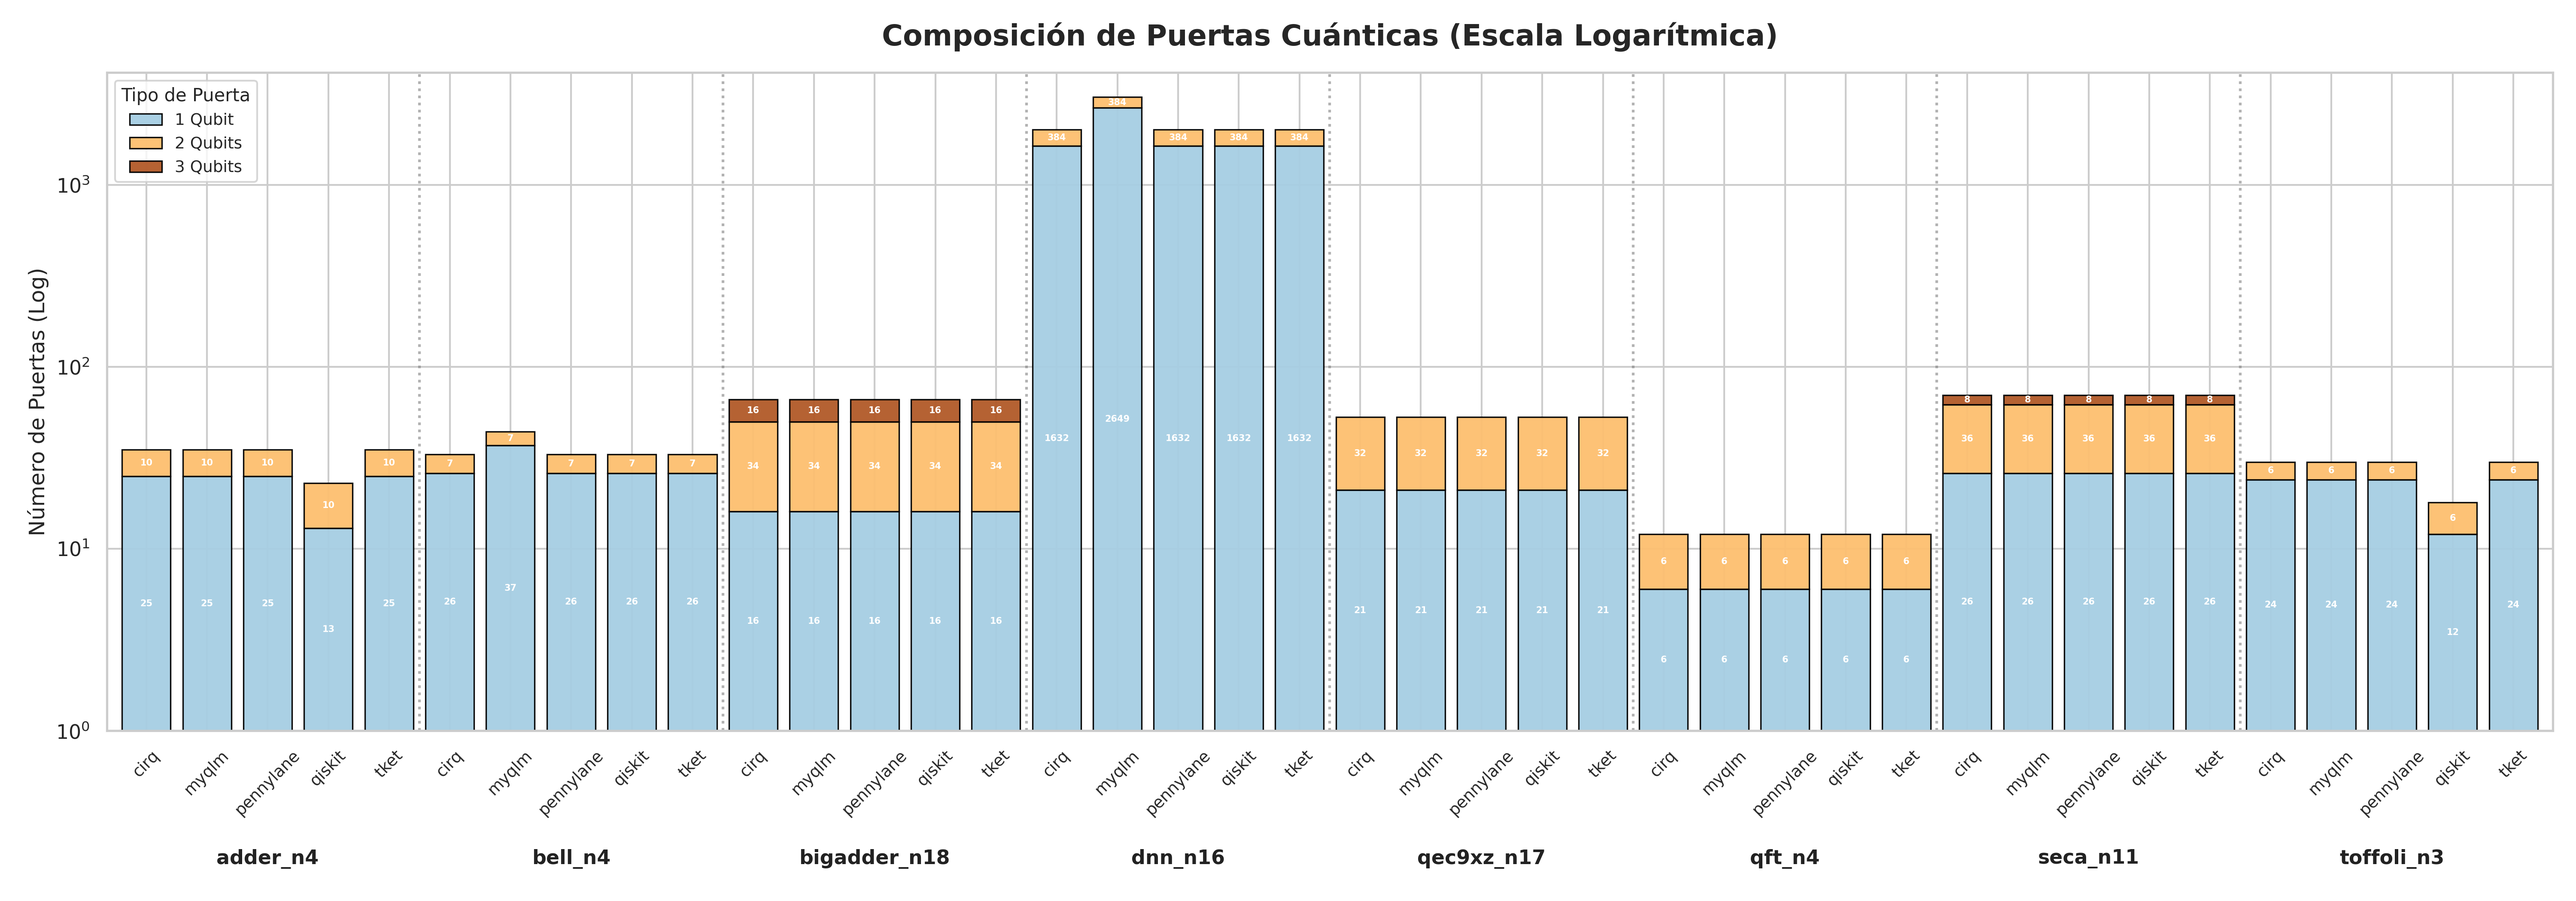
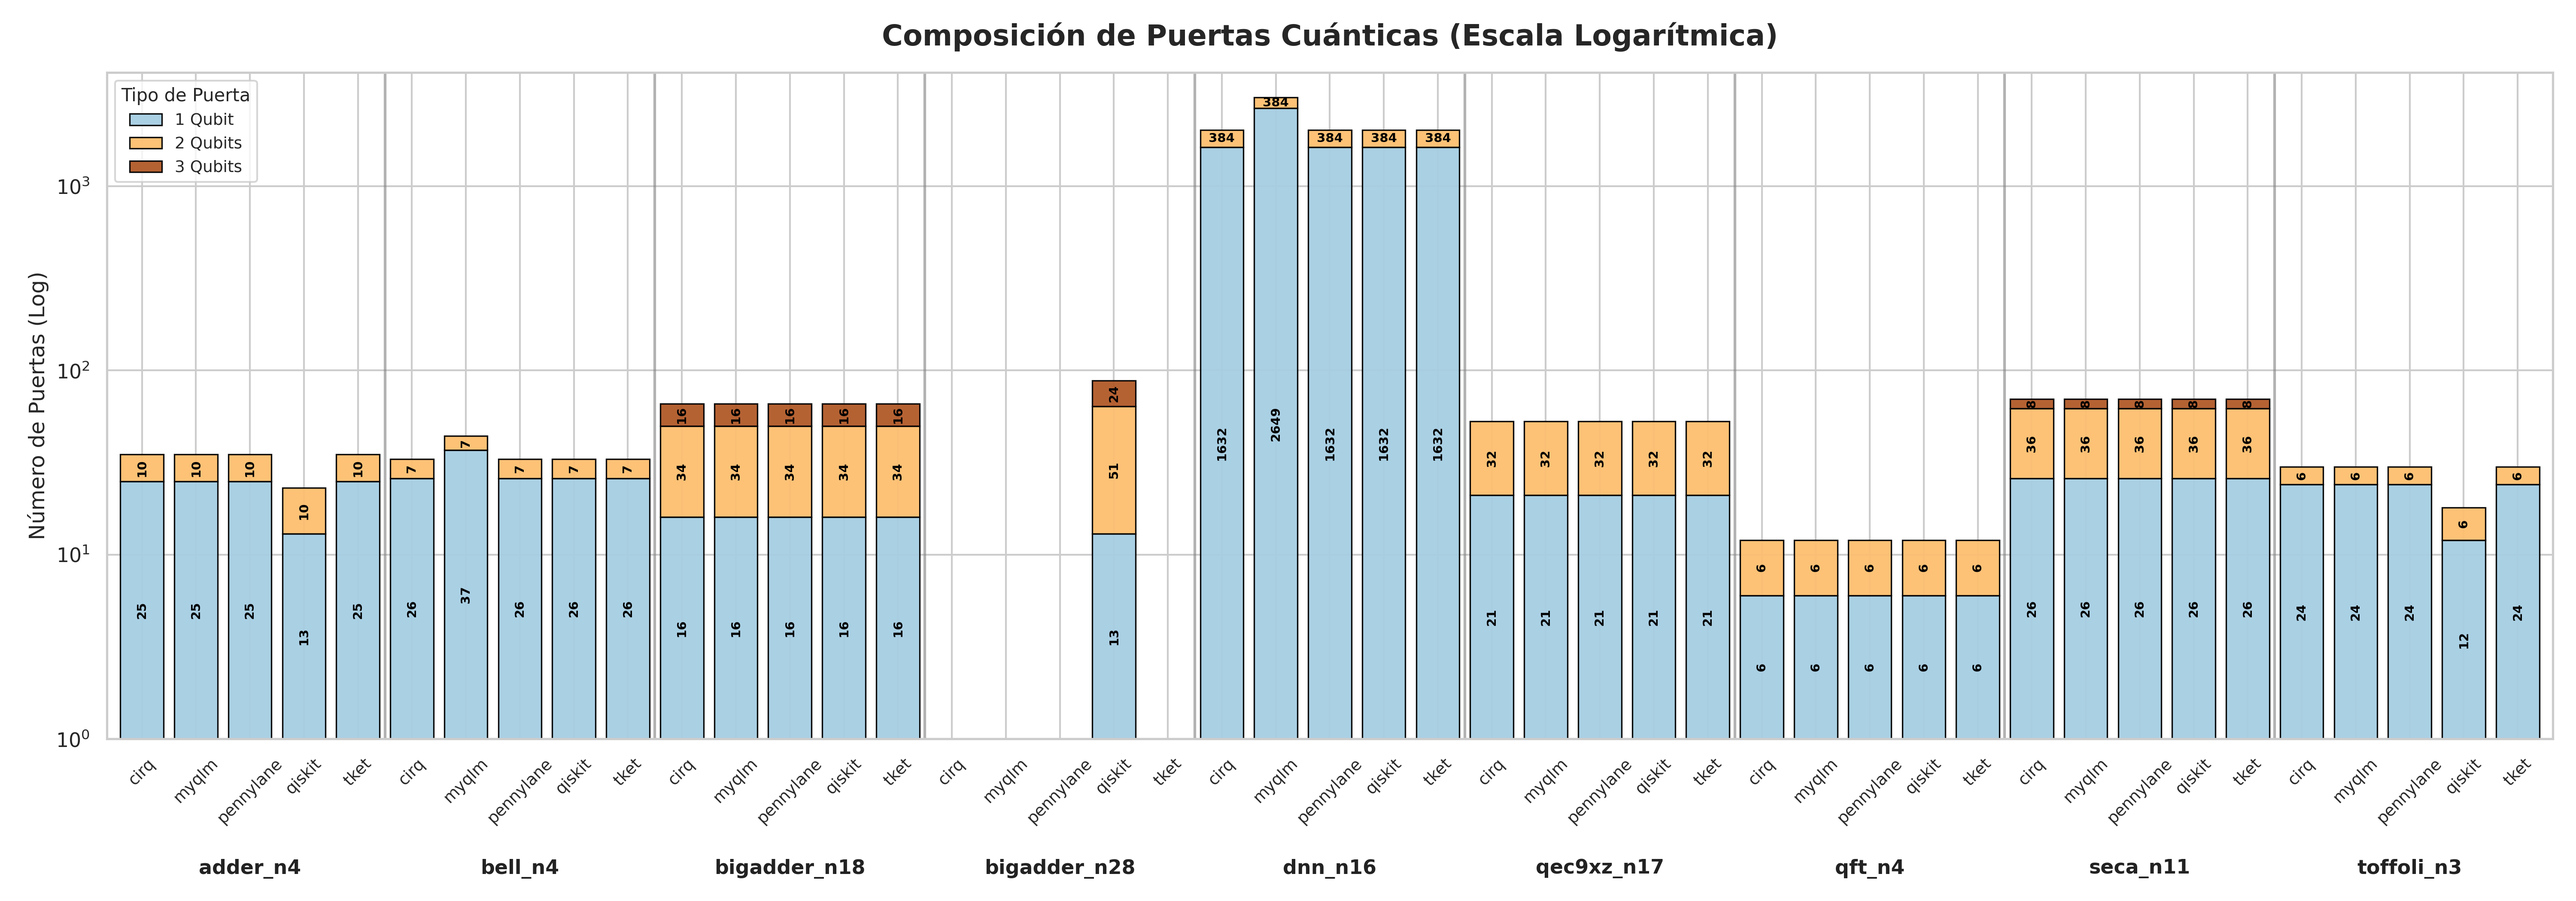
Arreglo de la gráfica de gates

diff --git a/graficar_results.py b/graficar_results.py
@@ -389,7 +389,21 @@ def plot_gate_composition(df):
         if col not in df.columns:
             df[col] = 0
 
+    # 1. Agrupar datos reales
     df_grouped = df.groupby(["CIRCUIT", "FRAMEWORK"])[cols].mean().reset_index()
+    
+    # Obtenemos todos los circuitos únicos y todos los frameworks únicos
+    todos_circuitos = df_grouped["CIRCUIT"].unique()
+    todos_frameworks = ["qiskit", "cirq", "pennylane", "myqlm", "tket"] 
+
+    # Creamos un DataFrame con todas las combinaciones posibles
+    idx = pd.MultiIndex.from_product([todos_circuitos, todos_frameworks], names=["CIRCUIT", "FRAMEWORK"])
+    df_completo = pd.DataFrame(index=idx).reset_index()
+
+    # Hacemos un "merge" (unión) con los datos reales. 
+    # Lo que no existía se rellenará con NaN, y luego lo cambiamos a 0.
+    df_grouped = pd.merge(df_completo, df_grouped, on=["CIRCUIT", "FRAMEWORK"], how="left").fillna(0)
+
     # Ordenamos para que los frameworks del mismo circuito estén juntos
     df_grouped = df_grouped.sort_values(by=["CIRCUIT", "FRAMEWORK"])
 
@@ -397,7 +411,7 @@ def plot_gate_composition(df):
     x_pos = np.arange(len(df_grouped))
     data_plot = df_grouped[cols]
     
-    # Crear la figura
+    # Crear la figura (20 de ancho para que quepan todos con los frameworks vacíos)
     fig, ax = plt.subplots(figsize=(20, 7)) 
     
     data_plot.plot(kind='bar', stacked=True, ax=ax, width=0.8, 
@@ -409,13 +423,10 @@ def plot_gate_composition(df):
     # Etiquetas de Frameworks
     ax.set_xticks(x_pos)
     ax.set_xticklabels(df_grouped["FRAMEWORK"], rotation=45, ha='center', fontsize=9)
-    # Si nombres muy largos y se solapan, cambiar rotation y ha='right'
 
     # Etiquetas de Circuitos (Agrupadas debajo)
-    unique_circuits = df_grouped["CIRCUIT"].unique()
-    
     start = 0
-    for circuit in unique_circuits:
+    for circuit in todos_circuitos:
         count = len(df_grouped[df_grouped["CIRCUIT"] == circuit])
         end = start + count
         center = (start + (end - 1)) / 2
@@ -426,7 +437,7 @@ def plot_gate_composition(df):
         
         # Línea separadora vertical sutil
         if end < len(df_grouped):
-            ax.axvline(x=end - 0.5, color='gray', linestyle=':', alpha=0.6)
+            ax.axvline(x=end - 0.5, color='gray', alpha=0.6)
             
         start = end
 
@@ -443,10 +454,21 @@ def plot_gate_composition(df):
     # Añadir valores numéricos dentro de las barras
     for c in ax.containers:
         labels = [int(v) if v > 0 else "" for v in c.datavalues]
-        ax.bar_label(c, labels=labels, label_type='center', fontsize=5, color='white', weight='bold')
+        
+        texts = ax.bar_label(c, labels=labels, label_type='center', fontsize=7, color='black', weight='bold')
+        
+        for text in texts:
+            val_str = text.get_text()
+            if val_str: # Si hay número
+                valor = int(val_str)
+                
+                if valor == 384:
+                    text.set_rotation(0) # En horizontal
+                else:
+                    text.set_rotation(90) # Todos los demás en vertical
 
     # Ajuste de márgenes inferior
-    plt.subplots_adjust(bottom=0.1)
+    plt.subplots_adjust(bottom=0.15) # He subido esto a 0.15 para asegurar que no se corta el texto
     
     plt.tight_layout()
     plt.savefig(OUTPUT_IMAGE_GATES, dpi=300)
